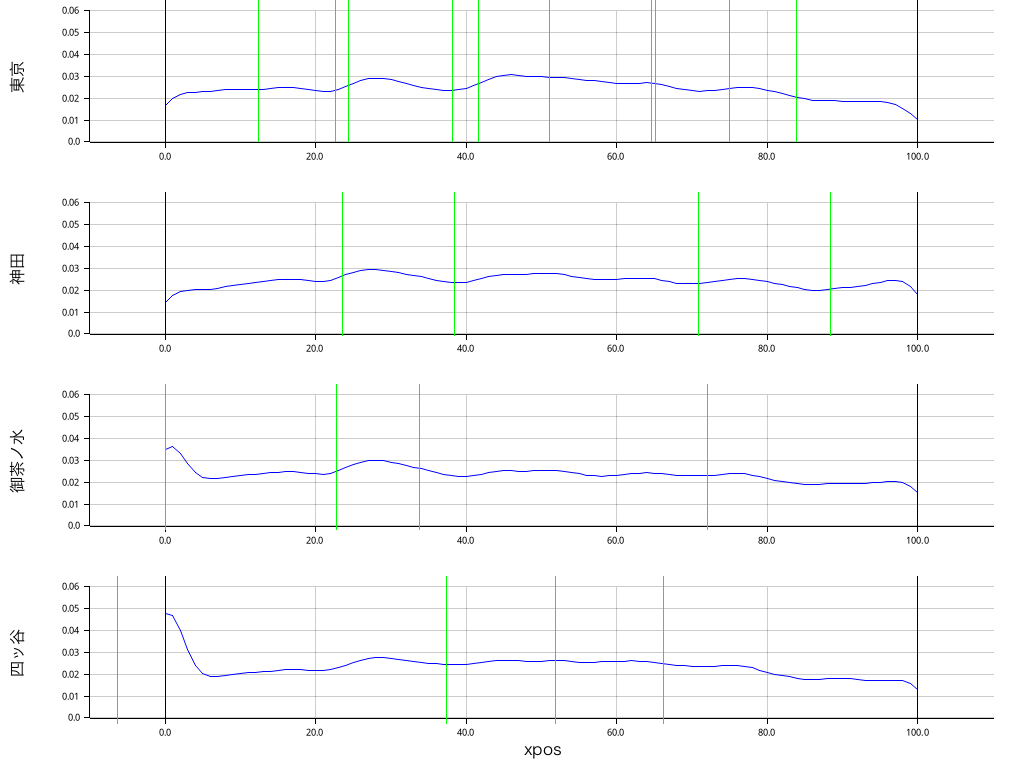
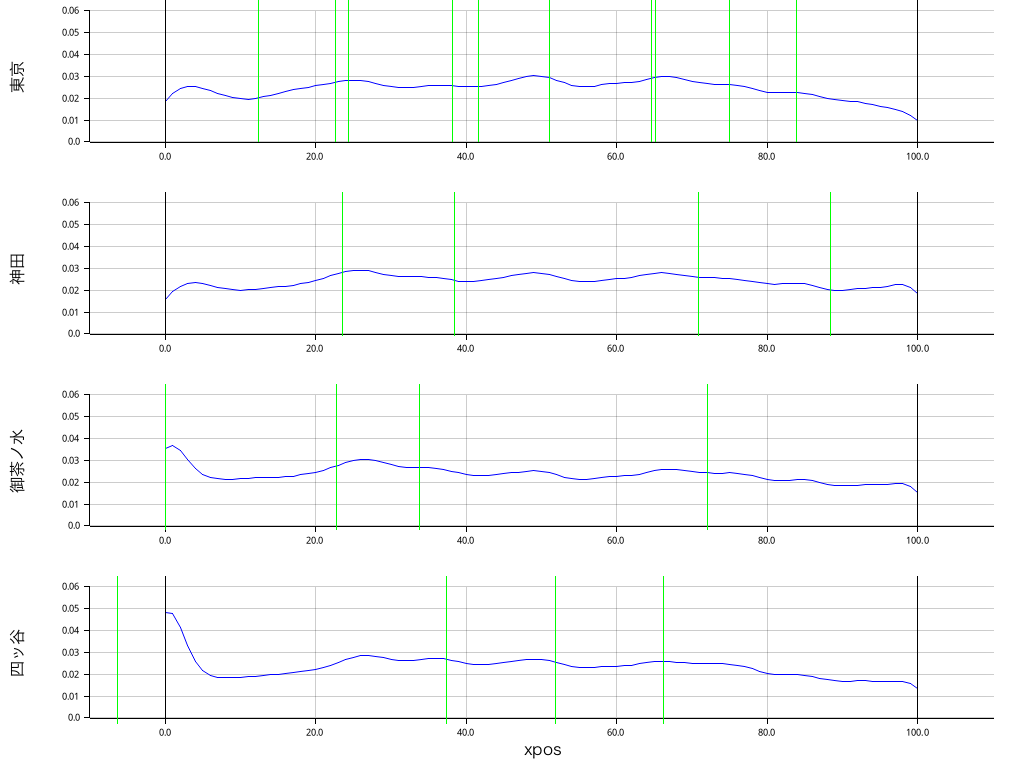
Add smoothed plot

diff --git a/src/plot/main.rs b/src/plot/main.rs
@@ -12,6 +12,7 @@ pub fn plot_kde_separate(
         Vec<StationStairs>,
         Vec<PassengerLocations>,
     ),
+    multiplier: f64
 ) -> Result<
     DrawingArea<BitMapBackend<'static>, Shift>,
     Box<dyn std::error::Error>,
@@ -22,7 +23,7 @@ pub fn plot_kde_separate(
         all_station_stairs,
         |i, chart: &mut Chart!()| {
             let tp: &PassengerLocations = &train_passengers[i];
-            let res = make_kde(tp);
+            let res = make_kde(multiplier, tp);
             chart
                 .draw_series(LineSeries::new(res, BLUE.filled()))
                 .unwrap();
@@ -35,12 +36,14 @@ pub fn plot_kde_together(
         Vec<StationStairs>,
         Vec<PassengerLocations>,
     ),
+    filename: &'static str,
+    multiplier: f64
 ) -> Result<
     DrawingArea<BitMapBackend<'static>, Shift>,
     Box<dyn std::error::Error>,
 > {
     let root =
-        BitMapBackend::new("out/together.png", (1024, 768)).into_drawing_area();
+        BitMapBackend::new(filename, (1024, 768)).into_drawing_area();
     root.fill(&WHITE)?;
 
     let mut chart = basic_chart!(&root)
@@ -62,7 +65,7 @@ pub fn plot_kde_together(
     for ((this_station_stair, train_passenger), color) in
         all_station_stairs.iter().zip(train_passengers).zip(colors)
     {
-        let res = make_kde(&train_passenger);
+        let res = make_kde(multiplier, &train_passenger);
         chart
             .draw_series(LineSeries::new(res, color.stroke_width(3)))?
             .label(&this_station_stair.station_name)

diff --git a/src/plot/utils.rs b/src/plot/utils.rs
@@ -64,11 +64,11 @@ macro_rules! plot_platform_bounds {
     };
 }
 
-pub fn make_kde(tp: &PassengerLocations) -> Vec<(f64, f64)> {
+pub fn make_kde(multiplier: f64, tp: &PassengerLocations) -> Vec<(f64, f64)> {
     (0..=100)
         .map(|num| {
             let x = num as f64;
-            let bandwidth = scotts(tp.passenger_locations.len() as f64) * 12.0;
+            let bandwidth = scotts(tp.passenger_locations.len() as f64) * multiplier;
             let y =
                 kernel_density_estimator(&tp.passenger_locations, bandwidth, x);
             (x, y)

diff --git a/src/main.rs b/src/main.rs
@@ -10,8 +10,9 @@ use plot::*;
 fn main() -> Result<(), Box<dyn std::error::Error>> {
     let stations = vec!["東京", "神田", "御茶ノ水", "四ッ谷"];
     let data = generate_passenger_locations(stations);
-    plot_kde_separate(data.clone())?.present()?;
+    plot_kde_separate(data.clone(), 12.0)?.present()?;
     plot_strip(data.clone())?.present()?;
-    plot_kde_together(data)?.present()?;
+    plot_kde_together(data.clone(), "out/together.png", 12.0)?.present()?;
+    plot_kde_together(data, "out/smoothed.png", 25.0)?.present()?;
     Ok(())
 }

diff --git a/README.md b/README.md
@@ -24,11 +24,17 @@ This chart shows the same data but in the same plot for easier inter-station com
 
 Comparing Tokyo and Kanda, positions 60-100 has increased density after Kanda, whilst the rest of the train is more dense in Tokyo.
 
+![smoothed](examples/smoothed.png)
+
+A naive way of modeling passenger dispersion to increase personal space is to increase the bandwidth for the kernel density estimate. This chart increases the bandwidth multiplier, smoothing out small differences, emphasizing focus on broader, larger scale differences. For example, the right-side stairs in Kanda increased passenger density on the right, but then decreases after Ochanomizu and Yotsuya as their stairs are on the left and center of the platform.
+
+The proper way is to use [crowd simulation](https://en.wikipedia.org/wiki/Crowd_simulation), but the depth is out of scope for this open source repo. Hopefully it will inspire someone else to dig deeper!
+
 ## Potential extensions
 
 - Proper OD data (the current OD data is probably commuter tickets only)
 - Easily adjustable variables (eg, mean and stdev of beta distributions)
-- Heat equation to model passengers dispersing throughout the train, as passengers do not mindlessly cluster together when there is space along the train
+- [Crowd simulation](https://en.wikipedia.org/wiki/Crowd_simulation) to model passengers dispersing throughout the train, as passengers do not mindlessly cluster together when there is space along the train
 - Consider variables such as shelter (for rainy weather)
 - Consider that some passengers will board at a location convenient for their destination station
 - Evaluate model with real world data of passenger distributions
